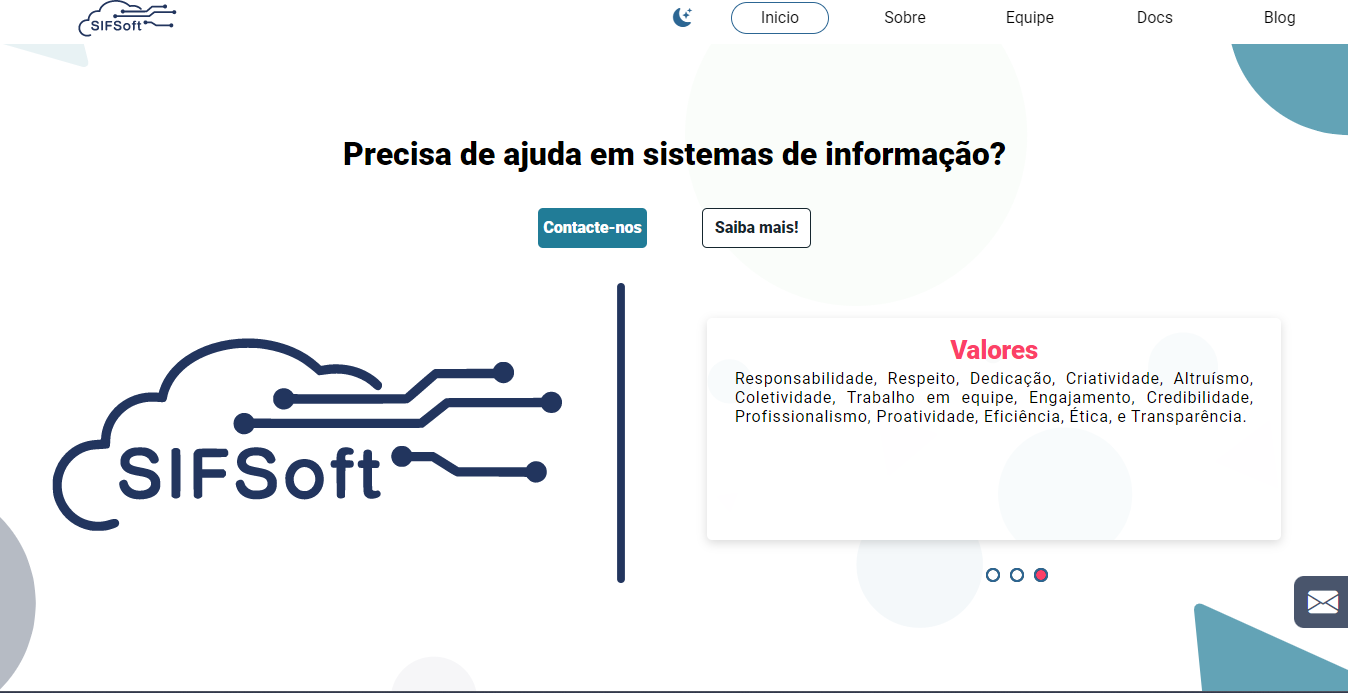
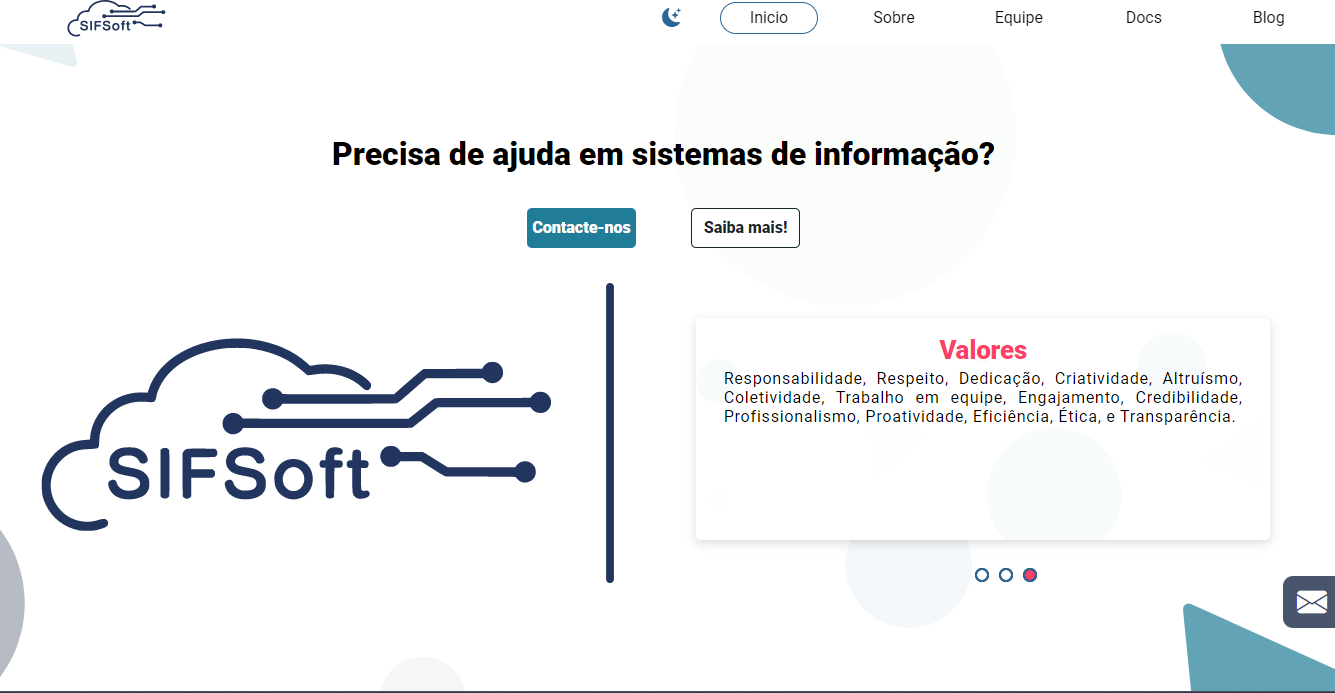
Versão de teste 2

diff --git a/index.html b/index.html
@@ -41,9 +41,9 @@
         </section>
         <div class="menu" id="menuID">
             <ul>
-                <li><a href="#sobre"><i class="bi bi-person-bounding-box"></i></a></li>
-                <li><a href="#projetos"><i class="bi bi-boxes"></i></a></li>
-                <li><a href="#habilidades"><i class="bi bi-terminal"></i></a></li>
+                <li><a href="#sobre" id="linkSobre"><i class="bi bi-person-bounding-box"></i></a></li>
+                <li><a href="#projetos" id="linkProj"><i class="bi bi-boxes"></i></a></li>
+                <li><a href="#habilidades" id="linkHab"><i class="bi bi-terminal"></i></a></li>
             </ul>
 
 
@@ -124,11 +124,6 @@
         navigation: {
           nextEl: '.swiper-button-next',
           prevEl: '.swiper-button-prev',
-        },
-      
-        // And if we need scrollbar
-        scrollbar: {
-          el: '.swiper-scrollbar',
         },
       });</script>
 </body>

diff --git a/css/styles.css b/css/styles.css
@@ -7,6 +7,7 @@
 html{
     scroll-behavior: smooth;
     overflow-y: scroll;
+    overflow-x: hidden;
     scroll-snap-type: y mandatory;
 }
 
@@ -175,11 +176,11 @@ html{
     flex-direction: column;
     justify-content: center;
     align-items: center;
-    padding: 0.5em;
-    width: 2em;
-    height: 10em;
+    text-align: center;
+    width: 2.3em;
+    height: 12em;
     border-radius: 15px;
-    top: calc(50vh - (5em));
+    top: calc(50vh - (12em));
     margin-left: 1em;
     box-shadow:0 3px 10px 0 rgba(0, 0, 0, 0.486);
 }
@@ -187,6 +188,7 @@ html{
     display: flex;
     flex-direction: column;
     justify-content: space-between;
+    margin-top: 1.1em;
 }
 
 .menu ul li{
